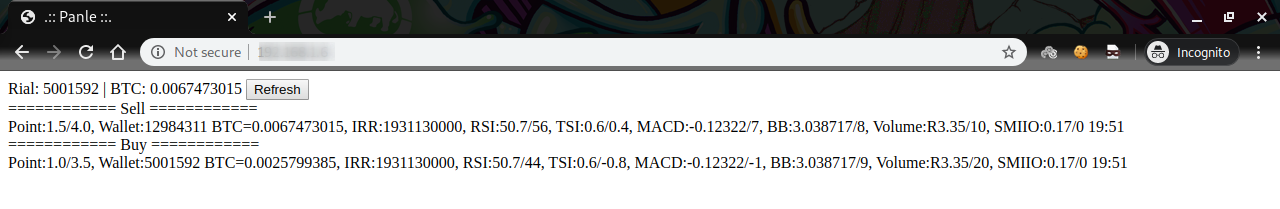
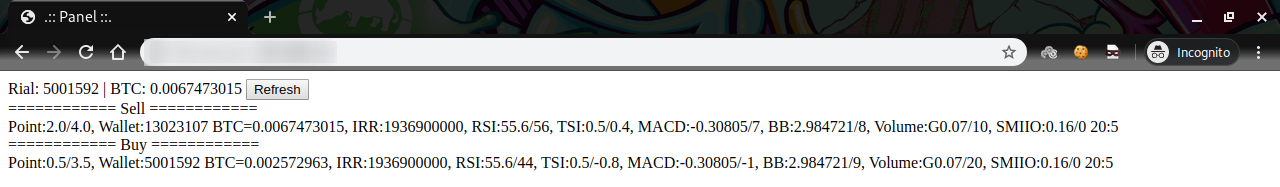
Update WebPanel

diff --git a/main.py b/main.py
@@ -472,7 +472,7 @@ def sellAction():
             <head>
                 <meta charset="UTF-8">
                 <meta name="viewport" content="width=device-width, initial-scale=1.0">
-                <title>.:: Panle ::.</title>
+                <title>.:: Panel ::.</title>
             </head>
             <body>
                 Rial: {rialPocket} | BTC: {btcPocket} 

diff --git a/README.md b/README.md
@@ -17,7 +17,7 @@ So as you can see, It started with **100,000IRR** and ended up to **297,452IRR**
 <img src="imgs/test7.png">
 
 # Web Panel
-The WebPanel for **Monitoring**
+The WebPanel for **Monitoring** (Apache2 Service)
 
 ### Current features
 - Current Balance
